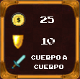
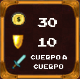
corregido error de montos

diff --git a/The Wall Defense/src/interfaz/GUI.java b/The Wall Defense/src/interfaz/GUI.java
@@ -24,7 +24,6 @@ public class GUI extends JFrame{
 	protected JPanel panelDerecho;
 	protected JPanel panelSuperior;
 	protected JPanel grafica;
-	protected JTabbedPane tabbedPane;
 
 	//Constructor.
 	public GUI() {	
@@ -38,46 +37,12 @@ public class GUI extends JFrame{
 		//Escenario. Donde va el mapa.
 		escenario= new Escenario();	
 		getContentPane().add(escenario, BorderLayout.CENTER);
-		
-		//Menu de power ups.
-
-		
-		
-		//Pestañas
-				tabbedPane = new JTabbedPane();
-				JPanel panel1 = new JPanel();
-				tabbedPane.addTab("Jugadores", panel1);
-				tabbedPane.setMnemonicAt(0, KeyEvent.VK_1);
-				
-				JPanel panel2 = new JPanel();
-				tabbedPane.addTab("Power-ups", panel2);
-				tabbedPane.setMnemonicAt(1, KeyEvent.VK_1);
-
-				/*JComponent panel2 = makeTextPanel("Panel #2");
-				tabbedPane.addTab("Tab 2", icon, panel2,
-				                  "Does twice as much nothing");
-				tabbedPane.setMnemonicAt(1, KeyEvent.VK_2);
-
-				JComponent panel3 = makeTextPanel("Panel #3");
-				tabbedPane.addTab("Tab 3", icon, panel3,
-				                  "Still does nothing");
-				tabbedPane.setMnemonicAt(2, KeyEvent.VK_3);
-
-				JComponent panel4 = makeTextPanel(
-				        "Panel #4 (has a preferred size of 410 x 50).");
-				panel4.setPreferredSize(new Dimension(410, 50));
-				tabbedPane.addTab("Tab 4", icon, panel4,
-				                      "Does nothing at all");
-				tabbedPane.setMnemonicAt(3, KeyEvent.VK_4);*/
 
 		//Panel Inferior
-		Icon bannerBottom=new ImageIcon(this.getClass().getResource("/resources/static/tienda/fondo.png"));
 		panelInferior= new JPanel();
 		panelInferior.setLayout(new BorderLayout());
 		panelInferior.setPreferredSize(new Dimension(10, 100));
 		panelInferior.setBackground(Color.BLACK);
-		panelInferior.add(new JLabel(bannerBottom));
-		panelInferior.add(tabbedPane);
 		getContentPane().add(panelInferior, BorderLayout.SOUTH);
 		
 		

diff --git a/The Wall Defense/src/jugador/Espadachin.java b/The Wall Defense/src/jugador/Espadachin.java
@@ -14,7 +14,7 @@ public class Espadachin extends PerfilJugador{
 	//Constructor.
 	public Espadachin() {
 		resistencia=8;
-		costo=30;
+		costo=25;
 	}
 	
 	//Metodos heredados.

diff --git a/The Wall Defense/src/jugador/Caballero.java b/The Wall Defense/src/jugador/Caballero.java
@@ -14,7 +14,7 @@ public class Caballero extends PerfilJugador{
 	//Constructor.
 	public Caballero() {
 		resistencia=10;
-		costo=25;
+		costo=30;
 	}
 	
 	//Metodos heredados.
